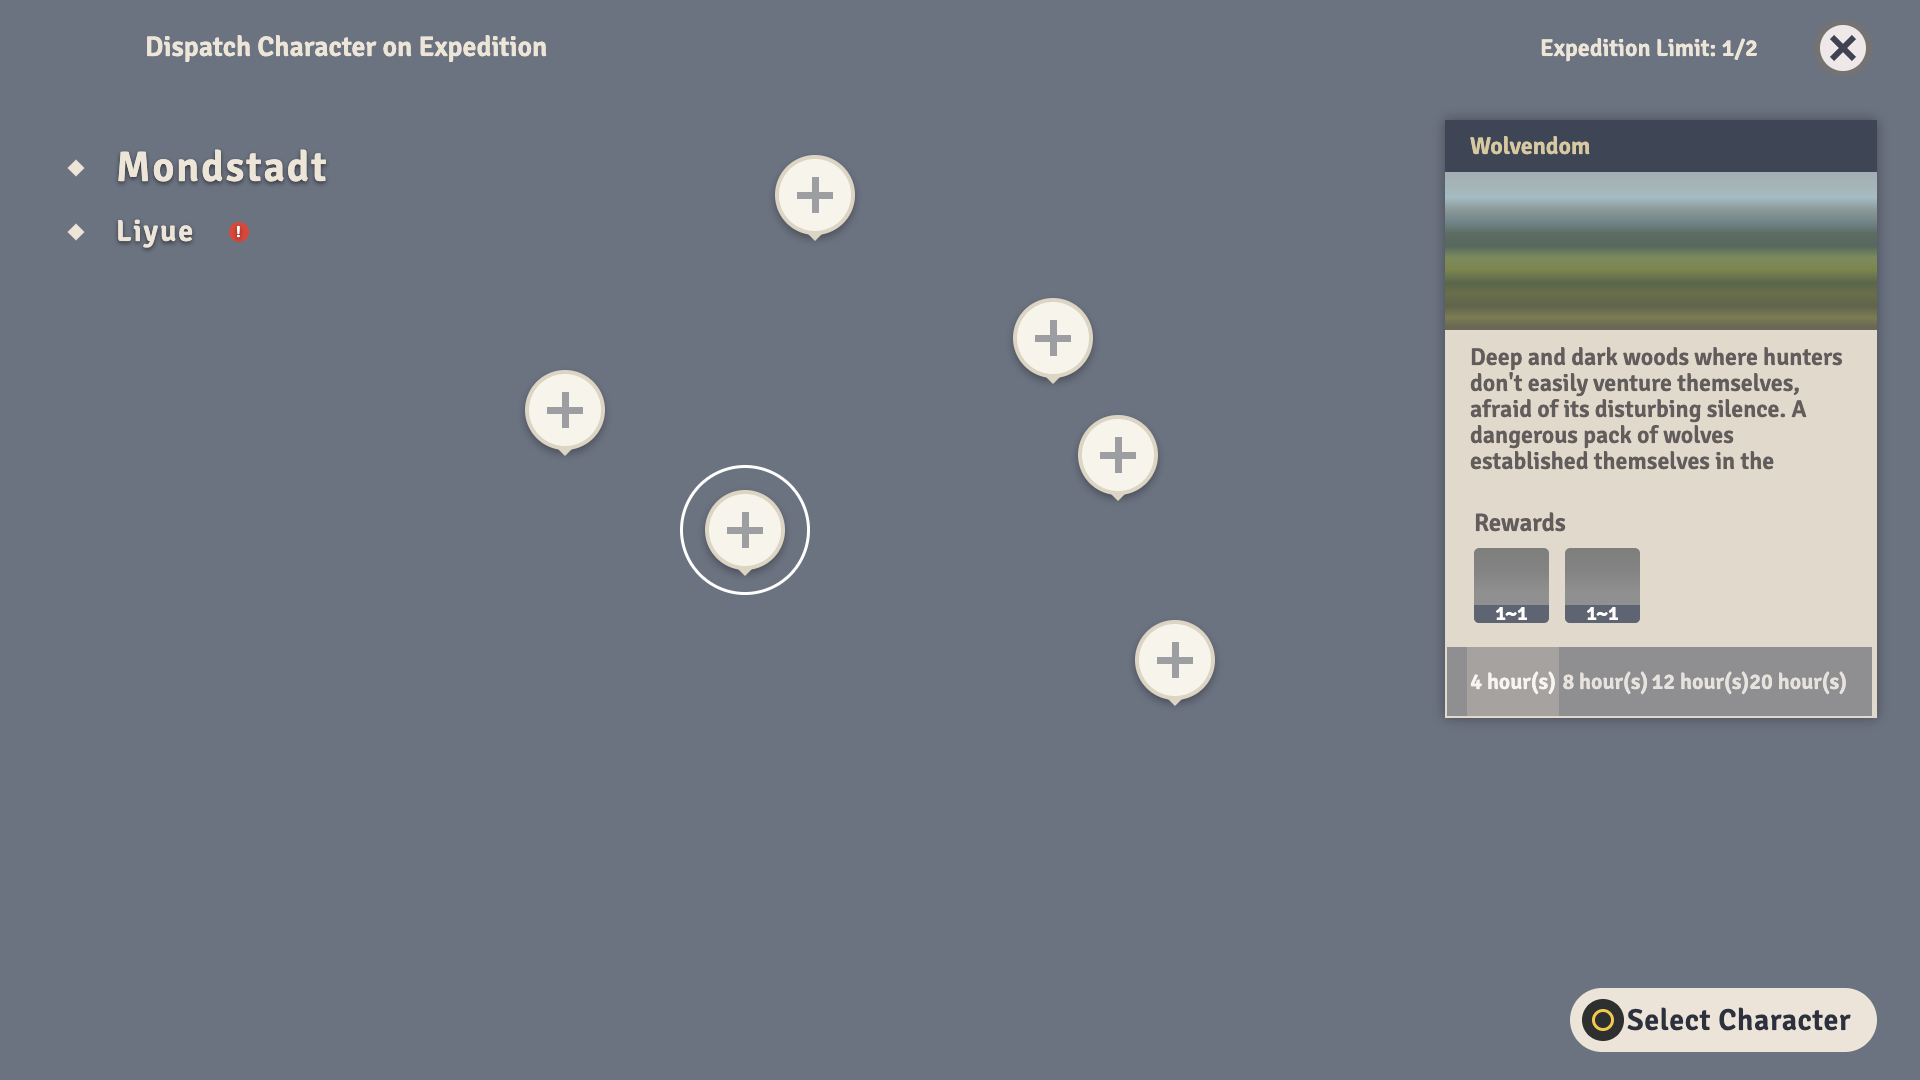
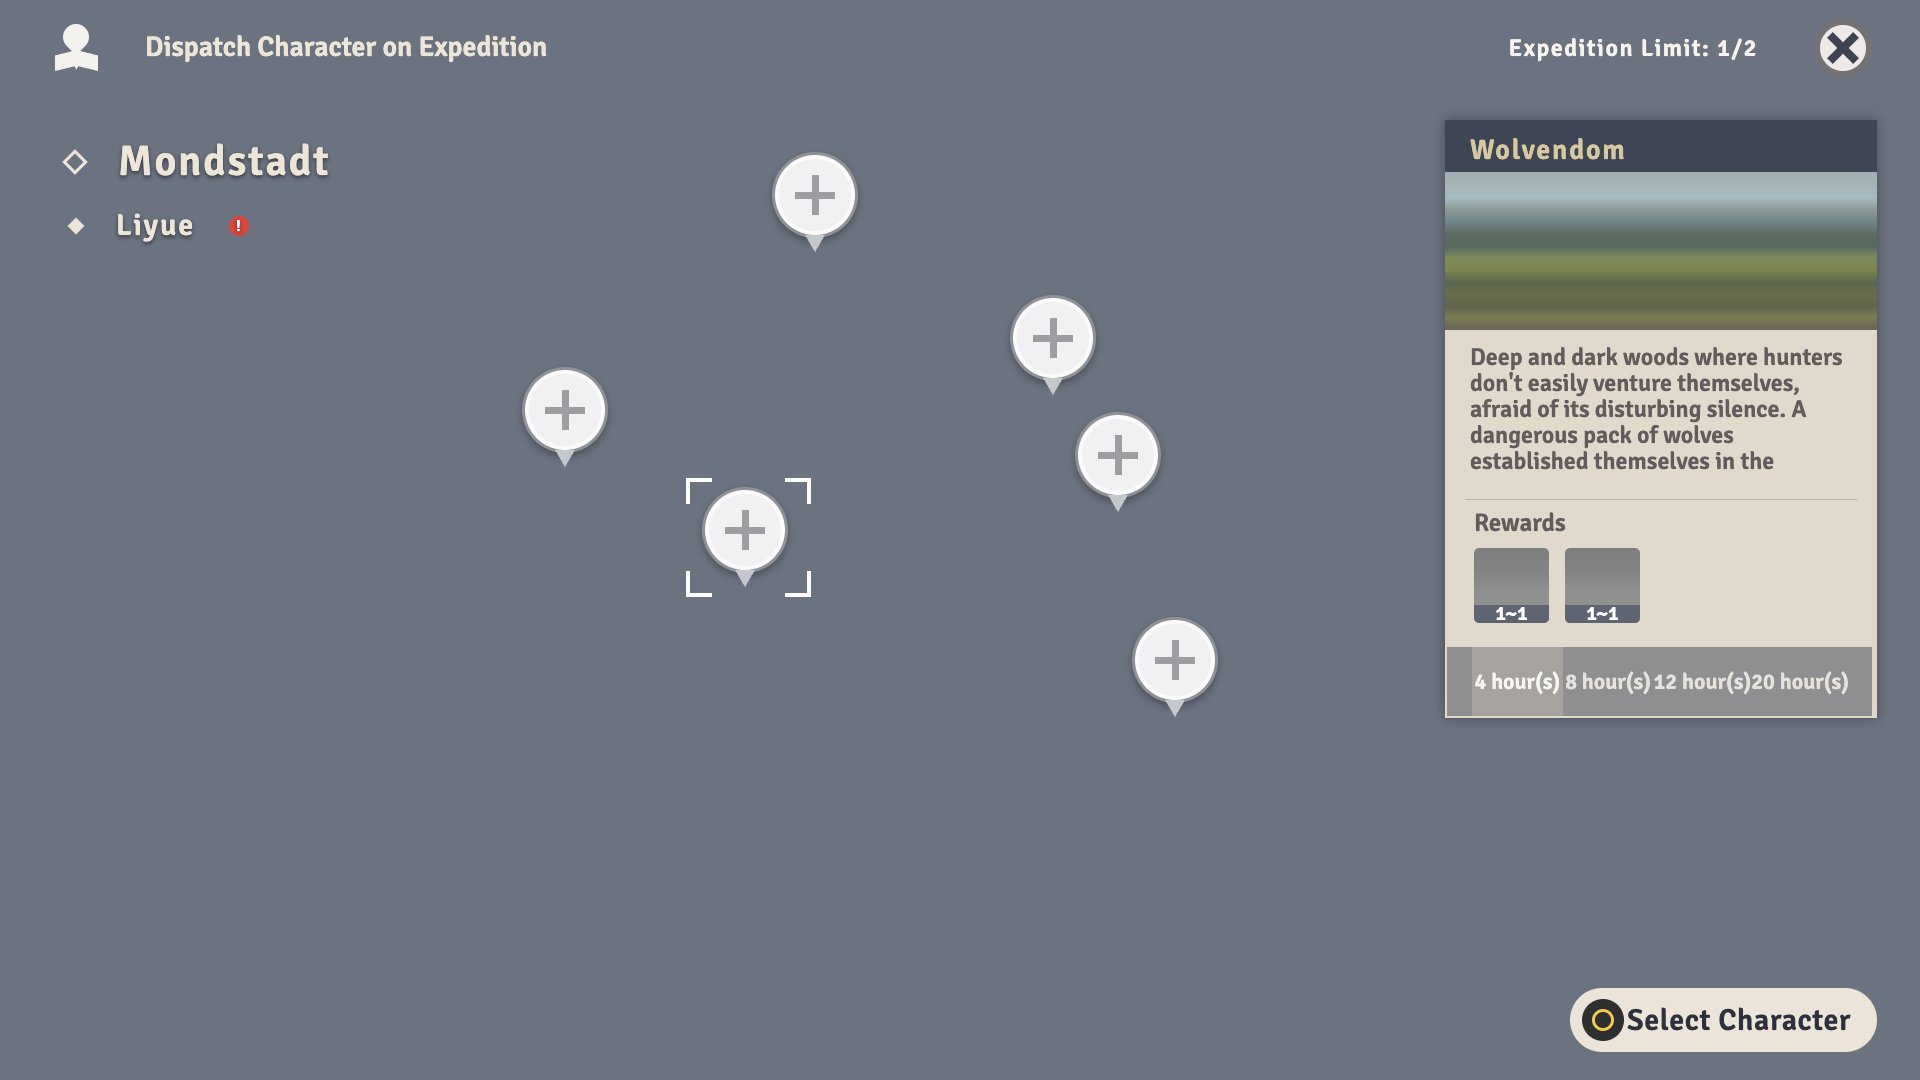
refactor(genshin-world): ExpeditionScreen is redrawn from its reference screenshots
The plated pieces the score never sees are judged by eye at full size against the still, and the ones the reference draws are drawn from its pixels: the head's map pin over an open book, the limit's cap height spaced out to the game's line width, the picked name at its cap height and baseline, the pins as white discs with a grey rim and a point, the picked pin as four corner brackets rather than a ring, the close cross at its measured size, the picked nation's diamond hollow, the rule under the description, and the duration bar's tab at the game's place.

Not drawn, by reason: the map's pictures, the item and character art and the faint portrait and panel ornament (art no hosted asset holds); the Liyue row (the wrapper holds Mondstadt's map only, so a Liyue tab would select nothing); the pin's away flag (no expedition is away from a pinned place in the fixture); the duration labels ("4h" in the still, "{0} hour(s)" in the decoded text map) and the description (the still's English is not in the decoded text map).

The map entry's comment said the reward panel's pixels were covered. No mask is named, so every pixel counts, the plate rectangles included, and the comment now says so.

expedition-screen, mean difference / shape / FLIP:
  before 1.61% / 0.923 / 0.0695
  after  1.56% / 0.934 / 0.0672

Claude-Session: https://claude.ai/code/session_0145sUFikQjWbKjS2GJtLRvd

diff --git a/packages/genshin-interface/src/components/ExpeditionScreen/Index.vue b/packages/genshin-interface/src/components/ExpeditionScreen/Index.vue
@@ -65,8 +65,9 @@ const pick = (characterId: number) => {
        across the head with the expedition limit and the way out, the nations down the left, the places as pins over the
        map, and the picked place's panel on the right with its rewards, its durations and the button that acts on it. The
        map is drawn over the world and is the game's art, which does not ship, so the screen is transparent there; the
-       panel's picture is drawn as a plain sheet, and the pin's brackets as a square outline -->
+       panel's picture is drawn as a plain sheet, and the picked pin's brackets as four corners -->
   <div class="expedition-screen">
+    <span class="emblem" aria-hidden="true" />
     <ScreenTitle class="heading">{{ title }}</ScreenTitle>
     <p class="limit">{{ limitLabel }}</p>
     <CloseButton class="close" :label="closeLabel" @click="emit('close')" />
@@ -134,20 +135,55 @@ const pick = (characterId: number) => {
   font-weight: 600;
 }
 
+/* The way-out emblem in the head is a white map pin over an open book, both drawn in plain shapes at the reference's place */
+.emblem {
+  position: absolute;
+  top: calc(var(--unit) * 22);
+  left: calc(var(--unit) * 55);
+  width: calc(var(--unit) * 43);
+  height: calc(var(--unit) * 50);
+}
+
+.emblem::before {
+  position: absolute;
+  top: calc(var(--unit) * 2);
+  left: calc(var(--unit) * 8);
+  width: calc(var(--unit) * 26);
+  height: calc(var(--unit) * 26);
+  border-radius: 50% 50% 50% 0;
+  background: #f4f2ee;
+  content: "";
+  transform: rotate(-45deg);
+}
+
+.emblem::after {
+  position: absolute;
+  top: calc(var(--unit) * 25);
+  left: 0;
+  width: calc(var(--unit) * 43);
+  height: calc(var(--unit) * 24);
+  background: #f4f2ee;
+  clip-path: polygon(0 35%, 46% 15%, 50% 30%, 54% 15%, 100% 35%, 100% 100%, 54% 80%, 50% 95%, 46% 80%, 0 100%);
+  content: "";
+}
+
 /* The title is the game's head line at 28 pixels, set in the game's place for it */
 .heading {
   font-size: calc(var(--unit) * 28);
 }
 
+/* The limit's cap height is the game's, and its face sets narrower, so the letters are spaced out to the game's line width */
 .limit {
   position: absolute;
   top: calc(var(--unit) * 33);
   right: calc(var(--unit) * 162);
   margin: 0;
+  color: #f7f4ee;
   font-size: calc(var(--unit) * 24);
+  letter-spacing: calc(var(--unit) * 1.5);
 }
 
-/* The way out is a disc 58 across with a grey ring, its cross two bars of the ink's colour, measured from the reference */
+/* The way out is a disc 58 across with a grey ring, its cross two bars of 37 by 8 in the ink's colour, measured from the reference */
 .close {
   border: calc(var(--unit) * 6) solid #757274;
   background: #eee9e8;
@@ -159,8 +195,8 @@ const pick = (characterId: number) => {
   position: absolute;
   top: 50%;
   left: 50%;
-  width: calc(var(--unit) * 31);
-  height: calc(var(--unit) * 6);
+  width: calc(var(--unit) * 37);
+  height: calc(var(--unit) * 8);
   background: currentcolor;
   content: "";
   transform: translate(-50%, -50%) rotate(45deg);
@@ -172,7 +208,7 @@ const pick = (characterId: number) => {
 
 .nations {
   position: absolute;
-  top: calc(var(--unit) * 142);
+  top: calc(var(--unit) * 136);
   left: calc(var(--unit) * 70);
   display: flex;
   flex-direction: column;
@@ -208,6 +244,16 @@ const pick = (characterId: number) => {
   transform: rotate(45deg);
 }
 
+/* The picked nation's diamond is hollow, 18 across with a stroke of 3, drawn over its label's left edge */
+.nation[aria-pressed="true"] .marker {
+  width: calc(var(--unit) * 18);
+  height: calc(var(--unit) * 18);
+  margin-left: calc(var(--unit) * -4);
+  border: calc(var(--unit) * 3) solid currentcolor;
+  background: none;
+  box-sizing: border-box;
+}
+
 .alert {
   display: inline-flex;
   width: calc(var(--unit) * 20);
@@ -220,7 +266,7 @@ const pick = (characterId: number) => {
   font-size: calc(var(--unit) * 16);
 }
 
-/* Each pin is a circle 80 across standing on its place, its point under it, the picked one outlined as the game brackets it */
+/* Each pin is a white disc 86 across with a grey rim standing on its place, its point under it, the picked one bracketed at its corners */
 .pins {
   position: absolute;
   inset: 0;
@@ -237,28 +283,30 @@ const pick = (characterId: number) => {
 
 .pin {
   position: absolute;
-  top: calc(var(--unit) * -40);
-  left: calc(var(--unit) * -40);
-  width: calc(var(--unit) * 80);
-  height: calc(var(--unit) * 80);
+  top: calc(var(--unit) * -43);
+  left: calc(var(--unit) * -43);
+  width: calc(var(--unit) * 86);
+  height: calc(var(--unit) * 86);
   padding: 0;
-  border: calc(var(--unit) * 4) solid #dcd5c4;
+  border: calc(var(--unit) * 3) solid #8e9197;
   border-radius: 50%;
-  background: #f7f4ec;
+  background: #f1f1f3;
   color: #6f6a58;
   font: inherit;
   font-size: calc(var(--unit) * 48);
   line-height: calc(var(--unit) * 72);
-  box-shadow: 0 calc(var(--unit) * 4) calc(var(--unit) * 8) rgb(0 0 0 / 0.3);
+  box-shadow:
+    inset 0 0 0 calc(var(--unit) * 4) #fbfbfb,
+    0 calc(var(--unit) * 4) calc(var(--unit) * 8) rgb(0 0 0 / 0.3);
 }
 
-/* The plus is two bars of 36 by 7 in the game's grey, centred on the pin */
+/* The plus is two bars of 40 by 7 in the game's grey, centred on the pin */
 .plus {
   position: absolute;
   top: 50%;
   left: 50%;
-  width: calc(var(--unit) * 36);
-  height: calc(var(--unit) * 36);
+  width: calc(var(--unit) * 40);
+  height: calc(var(--unit) * 40);
   background:
     linear-gradient(#9c9ea2, #9c9ea2) center / 100% calc(var(--unit) * 7) no-repeat,
     linear-gradient(#9c9ea2, #9c9ea2) center / calc(var(--unit) * 7) 100% no-repeat;
@@ -283,15 +331,32 @@ const pick = (characterId: number) => {
   position: absolute;
   top: 100%;
   left: 50%;
-  border: calc(var(--unit) * 10) solid transparent;
-  border-top-color: #dcd5c4;
+  width: 0;
+  height: 0;
+  border: solid transparent;
+  border-width: calc(var(--unit) * 17) calc(var(--unit) * 10) 0;
+  border-top-color: #c4c7cc;
   content: "";
   transform: translateX(-50%);
 }
 
-.pin[aria-pressed="true"] {
-  outline: calc(var(--unit) * 3) solid #fff;
-  outline-offset: calc(var(--unit) * 22);
+/* The picked pin's brackets: four corners of 26 by 4 units, on a box 125 by 119 round the pin */
+.pin[aria-pressed="true"]::before {
+  position: absolute;
+  top: calc(var(--unit) * -12);
+  left: calc(var(--unit) * -19);
+  width: calc(var(--unit) * 125);
+  height: calc(var(--unit) * 119);
+  background:
+    linear-gradient(#fff, #fff) left top / calc(var(--unit) * 26) calc(var(--unit) * 4) no-repeat,
+    linear-gradient(#fff, #fff) left top / calc(var(--unit) * 4) calc(var(--unit) * 26) no-repeat,
+    linear-gradient(#fff, #fff) right top / calc(var(--unit) * 26) calc(var(--unit) * 4) no-repeat,
+    linear-gradient(#fff, #fff) right top / calc(var(--unit) * 4) calc(var(--unit) * 26) no-repeat,
+    linear-gradient(#fff, #fff) left bottom / calc(var(--unit) * 26) calc(var(--unit) * 4) no-repeat,
+    linear-gradient(#fff, #fff) left bottom / calc(var(--unit) * 4) calc(var(--unit) * 26) no-repeat,
+    linear-gradient(#fff, #fff) right bottom / calc(var(--unit) * 26) calc(var(--unit) * 4) no-repeat,
+    linear-gradient(#fff, #fff) right bottom / calc(var(--unit) * 4) calc(var(--unit) * 26) no-repeat;
+  content: "";
 }
 
 /* The panel at 1445 from the left and 120 from the top, 432 wide and 598 high, its children placed from its corner */
@@ -307,6 +372,7 @@ const pick = (characterId: number) => {
   box-shadow: 0 0 calc(var(--unit) * 12) rgb(0 0 0 / 0.35);
 }
 
+/* The name's cap height is 21 and its baseline 36 below the panel's top, so it is set at 28 and spaced out to the reference's width */
 .detail-name {
   position: absolute;
   top: 0;
@@ -314,8 +380,9 @@ const pick = (characterId: number) => {
   height: calc(var(--unit) * 52);
   margin: 0;
   color: #d8c8a0;
-  font-size: calc(var(--unit) * 24);
-  line-height: calc(var(--unit) * 52);
+  font-size: calc(var(--unit) * 28);
+  letter-spacing: calc(var(--unit) * 1.8);
+  line-height: calc(var(--unit) * 60);
 }
 
 .detail::before {
@@ -325,6 +392,17 @@ const pick = (characterId: number) => {
   left: 0;
   height: calc(var(--unit) * 52);
   background: #3e4656;
+  content: "";
+}
+
+/* The rule under the description is a hairline 20 in from each side of the panel, at 379 below its top */
+.detail::after {
+  position: absolute;
+  top: calc(var(--unit) * 379);
+  right: calc(var(--unit) * 20);
+  left: calc(var(--unit) * 20);
+  height: calc(var(--unit) * 1);
+  background: #b9b2a4;
   content: "";
 }
 
@@ -478,7 +556,7 @@ const pick = (characterId: number) => {
   display: flex;
   height: calc(var(--unit) * 69);
   margin: 0;
-  padding: 0 calc(var(--unit) * 25) 0 calc(var(--unit) * 20);
+  padding: 0 calc(var(--unit) * 23) 0 calc(var(--unit) * 25);
   background: #8f8f91;
   list-style: none;
 }

diff --git a/scripts/src/services/genshinParity/shared/ParityReferenceMap.ts b/scripts/src/services/genshinParity/shared/ParityReferenceMap.ts
@@ -353,8 +353,9 @@ export const ParityReferenceMap: Record<string, ParityReference> = {
   },
   // The expedition screen at 1080 high from the public clip (yt-fxIjhlV3vUA), 26 seconds in: Mondstadt's map with six
   // Places pinned and Wolvendom picked, its Expedition Limit across the head, its rewards and durations down the right.
-  // Scored over the screen above the recorder's UID, which the clip draws at its bottom right corner. The reward panel and
-  // Its action button are drawn opaque by the page over the backdrop, so the reference's pixels under them are covered
+  // Scored over the whole screen above the recorder's UID, which the clip draws at its bottom right corner. No mask is named,
+  // So every pixel counts, the plate rectangles too: each plate is the backdrop's fill under a piece the page draws, and that
+  // Piece is scored against the reference's own pixels there. The reward panel and its action button count the same way
   "expedition-screen": {
     isBackdrop: true,
     plate: [

diff --git a/scripts/src/services/genshinParity/shared/ParityReferenceMap.snapshot.md b/scripts/src/services/genshinParity/shared/ParityReferenceMap.snapshot.md
@@ -31,7 +31,7 @@ committed.
 | `dialogue-paimon-line`                 | `DialogueTalk`              |                                                                          9.75% | 0.947 |  2.97% | 0.3121 |
 | `everfrozen-earth-location`            | `WorldScreen`               |                                                                         20.61% | 0.234 | 19.75% | 0.6327 |
 | `exit-prompt`                          | `MenuExit`                  |                                                                          1.59% | 0.999 |  1.24% | 0.1205 |
-| `expedition-screen`                    | `ExpeditionScreen`          |                                                                          1.61% | 0.923 |  0.47% | 0.0695 |
+| `expedition-screen`                    | `ExpeditionScreen`          |                                                                          1.56% | 0.934 |  0.44% | 0.0672 |
 | `fishing-screen`                       | `FishingScreen`             |                                                                          0.08% | 0.998 |  0.04% | 0.0041 |
 | `forge-screen`                         | `ForgeScreen`               |                                                                          3.67% | 0.776 |  1.84% | 0.1541 |
 | `forge-screen-ores-done`               | `ForgeScreen`               |                                                                          2.96% | 0.837 |  1.70% | 0.1389 |
